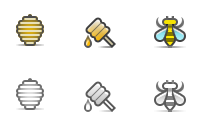
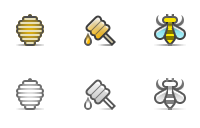
Admin Images:
* Better align menu icons.
* Add version to images using bbp_get_version()
* See #1839.

git-svn-id: http://bbpress.svn.wordpress.org/branches/plugin@3994 9866e705-20ec-0310-96e7-cbb4277adcfb

diff --git a/bbp-admin/bbp-admin.php b/bbp-admin/bbp-admin.php
@@ -553,10 +553,11 @@ class BBP_Admin {
 		remove_submenu_page( 'tools.php', 'bbp-reset'     );
 
 		// Icons for top level admin menus
-		$menu_icon_url    = $this->images_url . 'menu.png';
-		$icon32_url       = $this->images_url . 'icons32.png';
-		$menu_icon_url_2x = $this->images_url . 'menu-2x.png';
-		$icon32_url_2x    = $this->images_url . 'icons32-2x.png';
+		$version          = bbp_get_version();
+		$menu_icon_url    = $this->images_url . 'menu.png?ver='       . $version;
+		$icon32_url       = $this->images_url . 'icons32.png?ver='    . $version;
+		$menu_icon_url_2x = $this->images_url . 'menu-2x.png?ver='    . $version;
+		$icon32_url_2x    = $this->images_url . 'icons32-2x.png?ver=' . $version;
 
 		// Top level menu classes
 		$forum_class = sanitize_html_class( bbp_get_forum_post_type() );
@@ -722,25 +723,25 @@ class BBP_Admin {
 
 			/* Menu Positions */
 			#menu-posts-<?php echo $forum_class; ?> .wp-menu-image {
-				background-position: 0px -32px;
+				background-position: 0px -33px;
 			}
 			#menu-posts-<?php echo $forum_class; ?>:hover .wp-menu-image,
 			#menu-posts-<?php echo $forum_class; ?>.wp-has-current-submenu .wp-menu-image {
-				background-position: 0px 0px;
+				background-position: 0px -1px;
 			}
 			#menu-posts-<?php echo $topic_class; ?> .wp-menu-image {
-				background-position: -70px -32px;
+				background-position: -70px -34px;
 			}
 			#menu-posts-<?php echo $topic_class; ?>:hover .wp-menu-image,
 			#menu-posts-<?php echo $topic_class; ?>.wp-has-current-submenu .wp-menu-image {
-				background-position: -70px 0px;
+				background-position: -70px -2px;
 			}
 			#menu-posts-<?php echo $reply_class; ?> .wp-menu-image {
-				background-position: -35px -32px;
+				background-position: -35px -34px;
 			}
 			#menu-posts-<?php echo $reply_class; ?>:hover .wp-menu-image,
 			#menu-posts-<?php echo $reply_class; ?>.wp-has-current-submenu .wp-menu-image {
-				background-position:  -35px 0px;
+				background-position:  -35px -2px;
 			}
 
 			/* Menu 2x */
